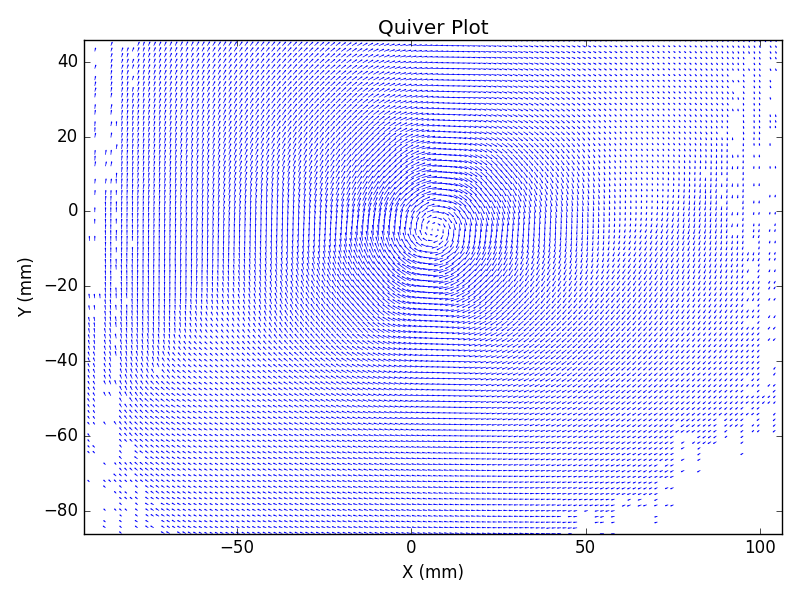
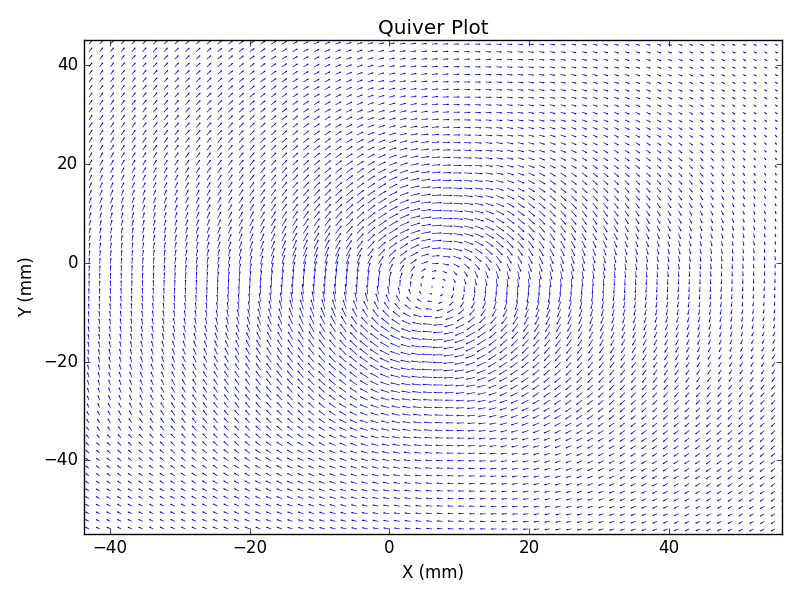
update quiver, piv fundamentals

diff --git a/texdocs/docs/intro/piv_fundamentals.tex b/texdocs/docs/intro/piv_fundamentals.tex
@@ -3,10 +3,28 @@
 Particle Image Velocimetry, or PIV, is a class of methods employed by 
 experimental fluid mechanics to measure instantaneous vector velocity fields by 
 measuring the displacements of small visible particles which follow the motion 
-of the fluid \cite{adrian2011}. 
+of the fluid \cite{adrian2011}. Figure \ref{fig:quiver_example} shows a typical 
+resulting vector field from measurements of a vortical flow. Each of these 
+two-dimensional vectors was measured simultaneously in a thin sheet of fluid. 
+The velocity of the fluid is sensed by acquiring images of well entrained 
+particles at precise times and measuring the displacement of those particles. 
+This technique can be used to study flows in gases and liquids, and is derived 
+from techniques originally developed to measure mechanical 
+deformations and stresses in solids.
+
+\begin{figure}[H]
+	\centering
+	\includegraphics[width=5in]{figs/example_vortex_figs/example_quiver}
+	\caption{Velocity vector field of a vortical flow structure as produced by 
+	PIV.}
+	\label{fig:quiver_example}
+\end{figure}
 
  
 \subsection{The Case for PIV}
+
+Unlike other flow measurement techniques, PIV is a non-invasive method to 
+directly measure time and displacement, and thus velocity.
 
 \subsection{Cameras and Lighting}
 

diff --git a/py/manager/AxialVortex.py b/py/manager/AxialVortex.py
@@ -396,7 +396,7 @@ class AxialVortex(MeanVecFieldCartesian):
 
         plt.title(title)
         plt.tight_layout()
-        xlims, ylims = self._get_plot_lims()
+        xlims, ylims = self._get_plot_lims(50, 50)
         plt.xlim(xlims)
         plt.ylim(ylims)
         plt.xlabel("X (mm)")
